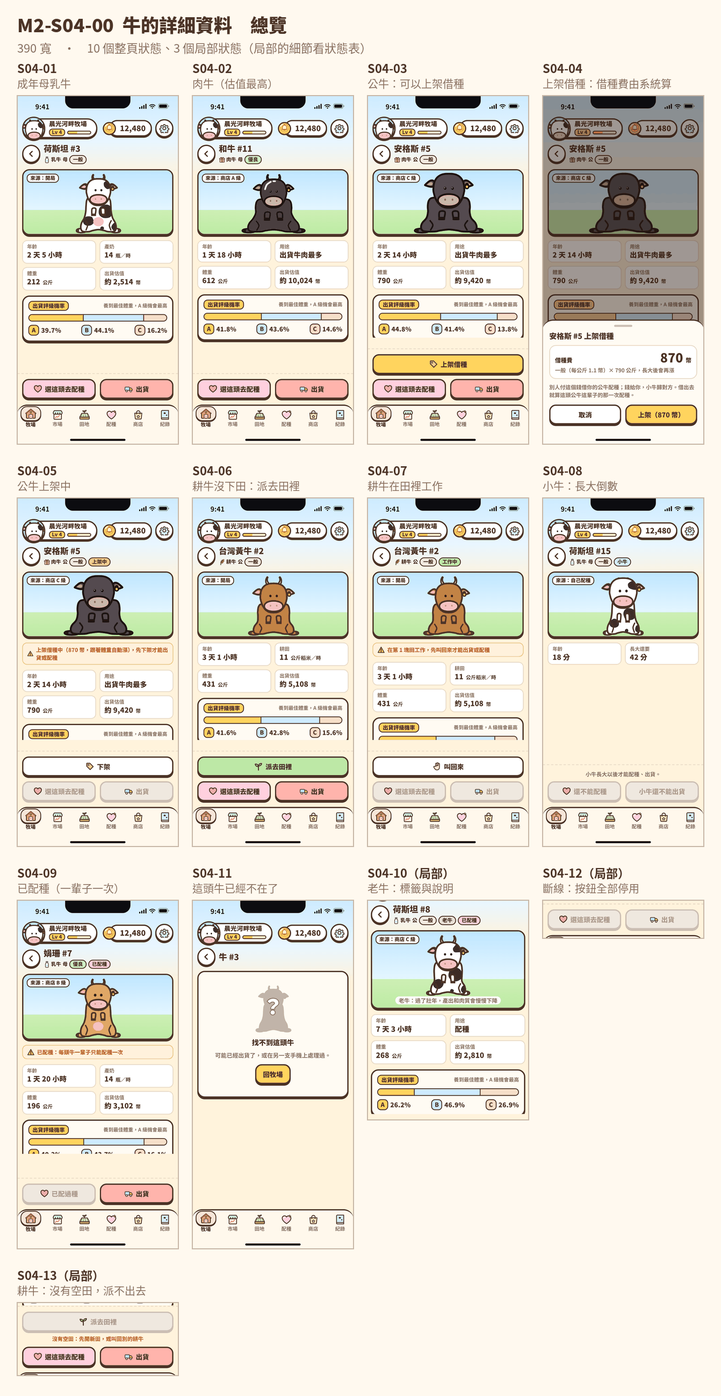
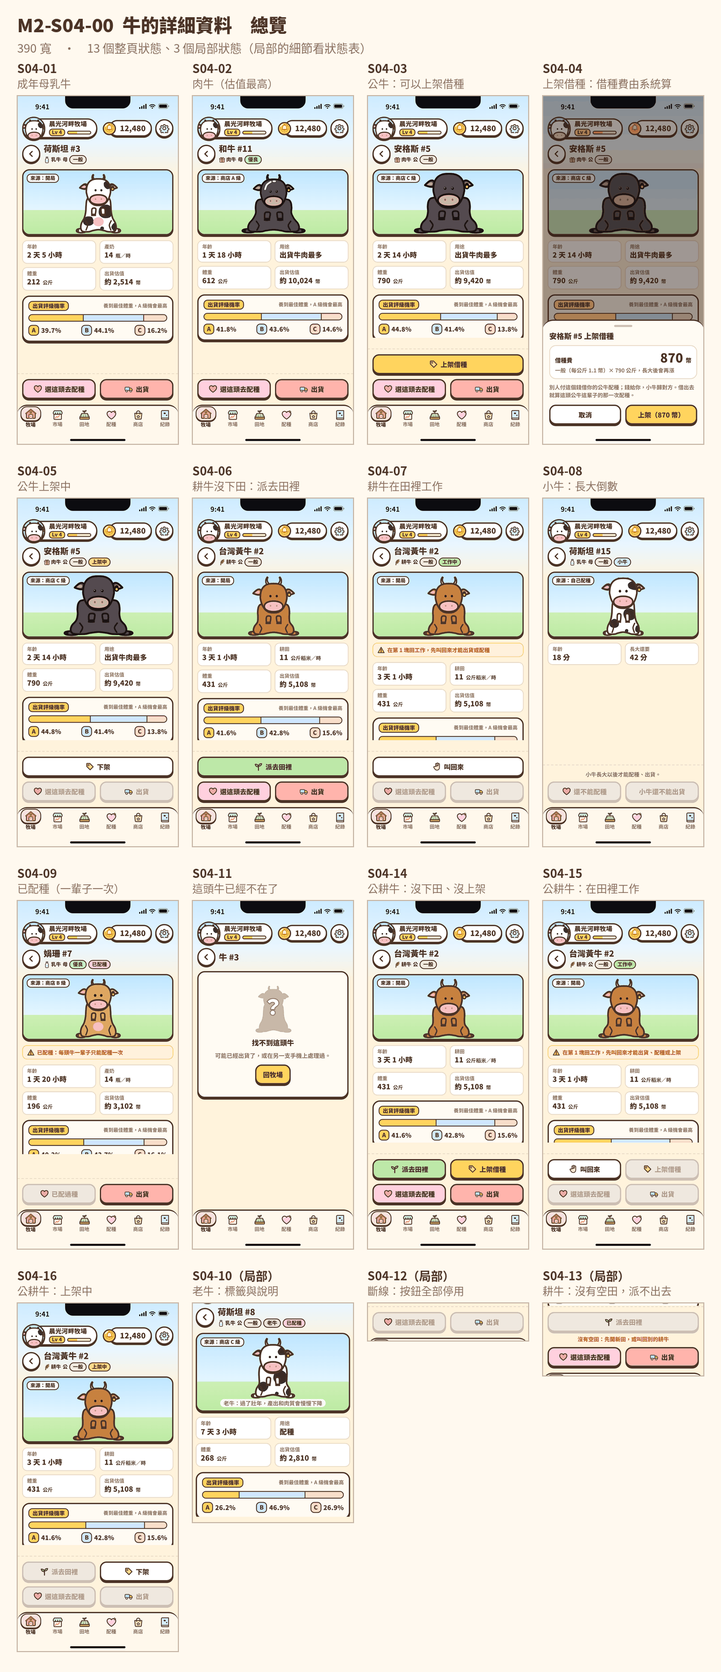
D31：上架中的公牛不放橘字（S04-05、S04-16，刪 unlistFirst）；圖鑑榜發現 24 種的都加「完成」（S12-02）；scope.md 加 9 列（184 → 193）；9 個新狀態進 boards；量測摘要重產

diff --git a/design/m2/src/js/screens/s09.js b/design/m2/src/js/screens/s09.js
@@ -93,15 +93,15 @@ function weeklyReset() {
 }
 // 排行榜的種類：key、名稱的 key、單位的 key
 const KINDS = [['networth', 'rankNetworth', 'g.coin'], ['collection', 'rankCollection', 's12.kinds'], ['weekly', 'rankWeekly', 'g.coin']];
-// 圖鑑榜發現 24 種的：分數前面加「完成」（企劃書 4.6；缺口清單 2-6）。done 只在 S12-08 打開，核准以後才套到全部
+// 圖鑑榜發現 24 種的：分數前面加綠色「完成」，下面「我的名次」那一條也有（企劃書 4.6；缺口清單 2-6，使用者 2026-10-02 核准，D31）
 const DONE_AT = 24;
 const doneBadge = () => `<span class="badge done">${icon('ok', 12)}<span class="bt">${t('s12.complete')}</span></span>`;
 function rankRow(r, unit, me = false, done = false) {
   const medal = r.rank <= 3 ? `<span class="medal m${r.rank}">${r.rank}</span>` : `<span class="rk num">${r.rank}</span>`;
   return `<div class="rank-row${me ? ' me' : ''}">${medal}<div class="grow"><div class="rn">${r.bot ? `<span class="bot">${t('botPrefix')}</span>` : ''}<span class="rn-name">${r.name}</span><span class="tag">${r.tag}</span></div><div class="rl"><span class="lv num">${t('level', { lv: r.level })}</span>${me ? `<span class="badge new">${t('s12.me')}</span>` : ''}</div></div>${done && r.value >= DONE_AT ? doneBadge() : ''}<b class="num rv">${compactBig(r.value)}<small>${unit}</small></b></div>`;
 }
-function rankPage(ctx, { kind = 0, me = null, state = '', rows = null, tall = false, done = false } = {}) {
-  const [key, , uk] = KINDS[kind], unit = t(uk);
+function rankPage(ctx, { kind = 0, me = null, state = '', rows = null, tall = false } = {}) {
+  const [key, , uk] = KINDS[kind], unit = t(uk), done = key === 'collection';
   let list = rows || RANK[key];
   if (me && me.rank <= list.length) list = list.map((r) => (r.rank === me.rank ? { ...me } : r));
   const body = state === 'loading' ? `<div class="oc-empty" style="min-height:160px"><span class="spinner"></span><span>${t('g.loading')}</span></div>`
@@ -130,7 +130,7 @@ part12('S12-06', '載入失敗', '.rank-card', (ctx) => rankPage(ctx, { kind: 0,
 full12('S12-07', '電腦玩家、名字最長（8 個中文字、16 個英文字母）、數字最大（量測用）', (ctx) => rankPage(ctx, { kind: 0, me: { rank: 12, name: RANCH.name, tag: RANCH.tag, level: 14, value: 98765432 }, rows: RANK.networth.map((r, i) => ({ ...r, name: [LONG_NAMES.cjk, LONG_NAMES.latin, '麥浪森林牧舍', '月牙石橋莊園', LONG_NAMES.cjk, '楓葉湖邊家園', LONG_NAMES.latin, '暖陽坡地牧野', '白雲谷地小屋', '青草松林牧園', '微風河畔牛舍', '晨光小丘農場'][i], level: 15 - Math.floor(i / 4), value: 999999999 - i * 12345678, bot: i % 3 === 1 })) }));
 
 // 圖鑑榜：發現 24 種的列和下面「我的名次」那一條，分數前面加「完成」。自己第 2 名、24 種
-full12('S12-08', '圖鑑榜：發現 24 種的加「完成」', (ctx) => rankPage(ctx, { kind: 1, done: true, me: { rank: 2, name: RANCH.name, tag: RANCH.tag, level: RANCH.level, value: 24 } }));
+full12('S12-08', '圖鑑榜：發現 24 種的加「完成」', (ctx) => rankPage(ctx, { kind: 1, me: { rank: 2, name: RANCH.name, tag: RANCH.tag, level: RANCH.level, value: 24 } }));
 
 export const S09 = { id: 'S09', name: '圖鑑', states: S };
 export const S12 = { id: 'S12', name: '排行榜', states: S2 };

diff --git a/design/m2/src/js/screens/s04.js b/design/m2/src/js/screens/s04.js
@@ -69,8 +69,8 @@ full('S04-04', '上架借種：借種費由系統算', (ctx) => detailPage(ctx, 
       <div class="btn-row" style="margin-top:14px">${btn(t('cancel'))}${btn(t('s04.listConfirm', { price: fmt(FEE5) }), { kind: 'primary' })}</div>`,
   }),
 }));
+// 上架中的公牛不放橘色提醒（使用者 2026-10-02：「不用跟使用者講這個機制」，D31）；狀態看名字下面的「上架中」標籤和停用的按鈕
 full('S04-05', '公牛上架中', (ctx) => detailPage(ctx, cowById(5), {
-  note: t('unlistFirst', { price: fmt(FEE5) }),
   buttons: `${btn(t('unlist'), { ic: 'tag', block: true })}<div class="btn-row" style="margin-top:12px">${breedBtn(true)}${shipBtn(true)}</div>`,
 }));
 const idleOx = { ...cowById(2), field: null };
@@ -90,7 +90,7 @@ full('S04-11', '這頭牛已經不在了', (ctx) => frame(ctx.dev, { tab: 'ranch
   <article class="card">${empty({ pic: cowSVG({ breed: 'holstein' }, { w: 120, h: 120, sil: true }), t1: t('s04.goneTitle'), t2: t('s04.goneBody'), action: btn(t('s04.backRanch'), { kind: 'primary' }) })}</article></div>` }));
 part('S04-12', '斷線：按鈕全部停用', '.detail-actions', (ctx) => detailPage(ctx, cowById(3), { offline: true, buttons: `<div class="btn-row">${breedBtn(true)}${shipBtn(true)}</div>` }));
 part('S04-13', '耕牛：沒有空田，派不出去', '.detail-actions', (ctx) => detailPage(ctx, idleOx, { buttons: `${btn(t('g.assign'), { kind: 'green', ic: 'sprout', block: true, disabled: true })}<p class="warn-text" style="margin-top:8px;text-align:center">${t('s04.noField')}</p><div class="btn-row" style="margin-top:10px">${breedBtn(false)}${shipBtn(false)}</div>` }));
-// 公耕牛（成年、沒配過種）：可以下田，也可以上架借種，一共 4 個動作。第一排兩顆半寬：派去田裡（或叫回來）、上架借種（或下架）；第二排照舊（缺口清單 2-1）
+// 公耕牛（成年、沒配過種）：可以下田，也可以上架借種，一共 4 個動作。第一排兩顆半寬：派去田裡（或叫回來）、上架借種（或下架）；第二排照舊（缺口清單 2-1，D31）
 const oxRow = (a, b) => `<div class="btn-row">${a}${b}</div><div class="btn-row" style="margin-top:12px">`;
 const FEE2 = studFee(idleOx.kg, 0);
 full('S04-14', '公耕牛：沒下田、沒上架', (ctx) => detailPage(ctx, idleOx, { buttons: `${oxRow(btn(t('g.assign'), { kind: 'green', ic: 'sprout' }), btn(t('s04.listStud'), { kind: 'primary', ic: 'tag' }))}${breedBtn(false)}${shipBtn(false)}</div>` }));
@@ -99,7 +99,6 @@ full('S04-15', '公耕牛：在田裡工作', (ctx) => detailPage(ctx, cowById(2
   buttons: `${oxRow(btn(t('s04.recall'), { ic: 'hand' }), btn(t('s04.listStud'), { kind: 'primary', ic: 'tag', disabled: true }))}${breedBtn(true)}${shipBtn(true)}</div>`,
 }));
 full('S04-16', '公耕牛：上架中', (ctx) => detailPage(ctx, { ...idleOx, listed: FEE2 }, {
-  note: t('s04.unlistFirstOx', { price: fmt(FEE2) }),
   buttons: `${oxRow(btn(t('g.assign'), { kind: 'green', ic: 'sprout', disabled: true }), btn(t('unlist'), { ic: 'tag' }))}${breedBtn(true)}${shipBtn(true)}</div>`,
 }));
 

diff --git a/design/m2/src/js/screens/s13.js b/design/m2/src/js/screens/s13.js
@@ -96,7 +96,7 @@ p13('S13-13', '解除綁定的確認（唯一綁定的帳號多一句提醒）',
 p13('S13-14', '兩種帳號都綁了：各一列，沒有登入按鈕', '.bk-body', (ctx) => backupPage(ctx, { bound: ['apple', 'google'] }));
 p13('S13-15', '綁定中…（登入視窗關掉後，等伺服器回覆）', '.sso-area', (ctx) => backupPage(ctx, { busy: true }));
 p13('S13-16', 'Android 版：只綁了 Google 時，沒有 Apple 那一列也沒有 Apple 登入按鈕', '.bk-body', (ctx) => backupPage(ctx, { android: true, bound: ['google'] }));
-p13('S13-19', 'Android 版：只綁了 Apple，提醒再綁 Google', '.bk-body', (ctx) => backupPage(ctx, { android: true, bound: ['apple'] }), { board: '缺口-狀態表' });
+p13('S13-19', 'Android 版：只綁了 Apple，提醒再綁 Google', '.bk-body', (ctx) => backupPage(ctx, { android: true, bound: ['apple'] }), { board: '只綁Apple-狀態表' });
 
 // ---------- 語言、漲跌顏色（D25） ----------
 // 選單用各自的文字寫；第一次打開跟著手機的語言（中文 → 繁中、泰文 → 泰文、其他 → 英文）
@@ -193,8 +193,8 @@ const maint = (ctx, eta) => frame(ctx.dev, { tab: null, hud: false, body: `<div 
 f16('S16-01', '伺服器維護中', (ctx) => maint(ctx, etaLine(t('s16.eta', { date: t('date.mdw', { m: 10, d: 2, w: t('weekday.4'), time: '03:00' }) }))));
 p16('S16-02', '操作時伺服器錯誤（500）', '.toast', (ctx) => ranchPage(ctx, { overlays: toast('err', t('err.internal')) }));
 p16('S16-03', '錯誤文案總表（依錯誤碼）', '#crop', (ctx) => frame(ctx.dev, { tab: null, hud: false, content: `<div id="crop" class="err-table">${ERRORS.map(([code, k, key, p]) => `<div class="err-item"><code data-note>${code}</code><div class="g-toast">${toast(k, errText(key, p))}</div></div>`).join('')}</div>`, tall: true }), { tall: true });
-p16('S16-04', '維護超過預計的時間', '.splash-box', (ctx) => maint(ctx, etaLine(t('s16.late'))), { board: '缺口-狀態表' });
-p16('S16-05', '沒有預計恢復的時間', '.splash-box', (ctx) => maint(ctx, ''), { board: '缺口-狀態表' });
+p16('S16-04', '維護超過預計的時間', '.splash-box', (ctx) => maint(ctx, etaLine(t('s16.late'))), { board: '預計時間-狀態表' });
+p16('S16-05', '沒有預計恢復的時間', '.splash-box', (ctx) => maint(ctx, ''), { board: '預計時間-狀態表' });
 
 export const S13M = { id: 'S13', name: '設定', states: S13 };
 export const S14M = { id: 'S14', name: '找回牧場', states: S14 };

diff --git a/design/m2/src/js/screens/s17.js b/design/m2/src/js/screens/s17.js
@@ -98,6 +98,6 @@ full('S17-09', '收成成功', (ctx) => fieldsPage(ctx, { stock: 361, fields: [{
 part('S17-10', '開新田：金幣不夠、已經 12 塊', '#crop', (ctx) => frame(ctx.dev, { tab: 'fields', content: `<div id="crop" class="stack">${btn(t('expandField', { cost: fmt(FIELD_UP.cost) }), { block: true, ic: 'plus', disabled: true })}<p class="warn-text" style="text-align:center">${t('notEnoughCoins', { n: fmt(FIELD_UP.cost - 3200) })}</p>${btn(t('s17.maxFields', { n: 12 }), { block: true, disabled: true })}</div>`, hud: { coins: 3200 } }));
 part('S17-11', '開新田成功', '.toast', (ctx) => fieldsPage(ctx, { hud: { coins: RANCH.coins - FIELD_UP.cost }, fields: [...FIELDS, { index: 3, cow: null, rice: 0 }], overlays: toast('ok', t('fieldExpanded', { n: 4 })) }));
 // 第 1 塊田：之前的稀有耕牛長了 120 公斤，叫回後改派一般耕牛（上限 88 公斤），伺服器不會再長
-part('S17-12', '田裡剩的稻米比這頭牛的上限多', '.field-card', (ctx) => fieldsPage(ctx, { fields: [{ ...FIELDS[0], rice: 120 }, FIELDS[1], FIELDS[2]], scrollTo: '.field-card' }), { board: '缺口-狀態表' });
+part('S17-12', '田裡剩的稻米比這頭牛的上限多', '.field-card', (ctx) => fieldsPage(ctx, { fields: [{ ...FIELDS[0], rice: 120 }, FIELDS[1], FIELDS[2]], scrollTo: '.field-card' }), { board: '剩的稻米-狀態表' });
 
 export default { id: 'S17', name: '田地', states: S };

diff --git a/design/m2/src/js/screens/s08.js b/design/m2/src/js/screens/s08.js
@@ -158,7 +158,7 @@ part18('S18-15', '借種紀錄是空的（全部、借出、借入）', '#crop',
   <div class="page-head"><button class="icon-btn" aria-label="${t('back')}">${icon('back', 22)}</button><div class="grow"><h1>${t('s18.logTitle')}</h1><div class="sub">${t('s18.logIncome', { v: 0 })}</div></div></div>
   ${LOG_EMPTY.map(([on, key]) => `<div class="filter" data-hscroll>${[t('g.all'), t('s18.out'), t('s18.in')].map((s, i) => `<button${i === on ? ' class="on"' : ''}>${s}</button>`).join('')}</div>
   <article class="card"><div class="oc-empty"><span>${t(key)}</span></div></article>`).join('')}
-  <p class="hint" style="text-align:center">${t('s18.logKeep', { n: 30 })}</p></div>` }), { board: '缺口-狀態表' });
+  <p class="hint" style="text-align:center">${t('s18.logKeep', { n: 30 })}</p></div>` }), { board: '空紀錄-狀態表' });
 
 // 借種紀錄的一列。gone：對方的牧場刪除了，紀錄照樣保留，對方的名字顯示「已刪除的牧場」（ceo 2026-10-02）
 function logRow(r) {

diff --git a/design/m2/measure/summary-th.md b/design/m2/measure/summary-th.md
@@ -9,10 +9,10 @@
 
 | 寬度 | 狀態數 | 最小字級 | 有問題的狀態 | 橫向捲動 | 刻意截成「…」 | 要往下捲的狀態 |
 |---|---|---|---|---|---|---|
-| 430×932 | 171 | 12 px | 0 | 0 | 0 | 36 |
-| 390×844 | 171 | 12 px | 0 | 0 | 2 | 47 |
-| 360×800 | 171 | 12 px | 2 | 0 | 4 | 51 |
-| 320×568 | 171 | 12 px | 4 | 0 | 115 | 73 |
+| 430×932 | 180 | 12 px | 0 | 0 | 0 | 38 |
+| 390×844 | 180 | 12 px | 0 | 0 | 2 | 49 |
+| 360×800 | 180 | 12 px | 2 | 0 | 4 | 56 |
+| 320×568 | 180 | 12 px | 3 | 0 | 121 | 79 |
 
 ## 430×932
 
@@ -31,7 +31,6 @@
 
 - **S03-08 一頭牛都沒有**：文字互相重疊、被蓋住或壓在圖上 9（例：ไปสุ่มวัวที่ร้านค้า หรือ；0%／按鈕:ไปร้านค้า；0 / 42 ขวดไม่มีวัวที่ให้）
 - **S03-17 大新聞提示：全部商品一起大跌（新文案）**：文字互相重疊、被蓋住或壓在圖上 1（例：พายุพัดผ่าน ตลาดปิดหนึ่ง）
-- **S04-08 小牛：長大倒數**：文字互相重疊、被蓋住或壓在圖上 2（例：อายุ／ลูกวัวต้องโตก่อนจึง；จะโตในอีก／ลูกวัวต้องโตก่）
 - **S07-05 斷線：「確定出貨」停用**：文字互相重疊、被蓋住或壓在圖上 1（例：กำลังเชื่อมต่อ…／โฮลสไต）
 
 ## 缺翻譯的 key（畫面用繁中顯示）
@@ -52,13 +51,13 @@
 
 | 狀態 | 寬度 | 被拆開的詞 | 實際換行（⏎） |
 |---|---|---|---|
-| S04-05 | 430 | ถอนประกาศ | ลงประกาศพ่อพันธุ์อยู่ (870 เหรียญ ขึ้นเองตามน้ำหนัก) ต้องถอน⏎ประกาศก่อนจึงจะส่งขายหรือผสมพันธุ์ได้ |
 | S04-07 | 430 | ผสมพันธุ์ | กำลังไถนาอยู่ที่แปลงที่ 1 ต้องเรียกกลับก่อนจึงจะส่งขายหรือผสม⏎พันธุ์ได้ |
 | S08-02 | 430 | วัวตัวผู้ | ไปสุ่มวัวที่ร้านค้า หรือรอลูกวัวตัวผู้โต หรือไปที่ "ยืมพ่อพันธุ์" เพื่อยืมวัว⏎ตัวผู้ของคนอื่นก็ได้ |
 | S13-07 | 430 | ลงชื่อเข้าใช้ด้วย | สำรองฟาร์มแล้ว หลังเปลี่ยนมือถือหรือติดตั้งใหม่ ลงชื่อเข้าใช้⏎ด้วยบัญชีที่ผูกไว้ก็กู้คืนได้ |
 | S13-13 | 430 | ลงชื่อเข้าใช้ด้วย | สำรองฟาร์มแล้ว หลังเปลี่ยนมือถือหรือติดตั้งใหม่ ลงชื่อเข้าใช้⏎ด้วยบัญชีที่ผูกไว้ก็กู้คืนได้ |
 | S13-14 | 430 | ลงชื่อเข้าใช้ด้วย | สำรองฟาร์มแล้ว หลังเปลี่ยนมือถือหรือติดตั้งใหม่ ลงชื่อเข้าใช้⏎ด้วยบัญชีที่ผูกไว้ก็กู้คืนได้ |
 | S13-16 | 430 | ลงชื่อเข้าใช้ด้วย | สำรองฟาร์มแล้ว หลังเปลี่ยนมือถือหรือติดตั้งใหม่ ลงชื่อเข้าใช้⏎ด้วยบัญชีที่ผูกไว้ก็กู้คืนได้ |
+| S13-19 | 430 | ลงชื่อเข้าใช้ด้วย | สำรองฟาร์มแล้ว หลังเปลี่ยนมือถือหรือติดตั้งใหม่ ลงชื่อเข้าใช้⏎ด้วยบัญชีที่ผูกไว้ก็กู้คืนได้ |
 | S18-11 | 430 | วัวช็อกโกแลต | เมื่อวาน 21:40 · เกิดลูกวัว วัว⏎ช็อกโกแลต #14 |
 | S07-03 | 390 | ส่งขาย | วัวตัวนี้กำลังไถนาอยู่ ต้องเรียกกลับก่อนจึงจะส่ง⏎ขายได้ |
 | S09-01 | 390 | วัวสตรอว์เบอร์รี | วัว⏎สตรอว์เบอร์รี |
@@ -70,6 +69,7 @@
 | S13-13 | 390 | ลงชื่อเข้าใช้ด้วย | สำรองฟาร์มแล้ว หลังเปลี่ยนมือถือหรือติดตั้งใหม่ ลงชื่อ⏎เข้าใช้ด้วยบัญชีที่ผูกไว้ก็กู้คืนได้ |
 | S13-14 | 390 | ลงชื่อเข้าใช้ด้วย | สำรองฟาร์มแล้ว หลังเปลี่ยนมือถือหรือติดตั้งใหม่ ลงชื่อ⏎เข้าใช้ด้วยบัญชีที่ผูกไว้ก็กู้คืนได้ |
 | S13-16 | 390 | ลงชื่อเข้าใช้ด้วย | สำรองฟาร์มแล้ว หลังเปลี่ยนมือถือหรือติดตั้งใหม่ ลงชื่อ⏎เข้าใช้ด้วยบัญชีที่ผูกไว้ก็กู้คืนได้ |
+| S13-19 | 390 | ลงชื่อเข้าใช้ด้วย | สำรองฟาร์มแล้ว หลังเปลี่ยนมือถือหรือติดตั้งใหม่ ลงชื่อ⏎เข้าใช้ด้วยบัญชีที่ผูกไว้ก็กู้คืนได้ |
 | S16-03 | 390 | ถอนประกาศ | วัวตัวผู้ตัวนี้ลงประกาศอยู่ในตลาดพ่อพันธุ์ ถอน⏎ประกาศก่อน |
 | S18-01 | 390 | ความหายาก、หายาก | ระบบคิดค่าพ่อพันธุ์ให้: น้ำหนักวัวตัวผู้ × ราคาต่อ กก. ตามความหา⏎ยาก โตขึ้นราคาจะขึ้นเอง |
 | S18-03 | 390 | ความหายาก、หายาก | ระบบคิดค่าพ่อพันธุ์ให้: น้ำหนักวัวตัวผู้ × ราคาต่อ กก. ตามความหา⏎ยาก โตขึ้นราคาจะขึ้นเอง |
@@ -78,6 +78,7 @@
 | S03-04 | 360 | ถังนม | โกดังเต็ม เก็บเข้าได้ 24 ขวด⏎ยังเหลืออีก 12.4 ขวดในถัง⏎นม |
 | S04-04 | 360 | ผสมพันธุ์ | คนอื่นจ่ายเงินจำนวนนี้เพื่อยืมวัวตัวผู้ของคุณไปผสมพันธุ์ เงิน⏎เป็นของคุณ ลูกวัวเป็นของอีกฝ่าย การให้ยืมนับเป็นการผสม⏎พัน |
 | S04-07 | 360 | ส่งขาย | กำลังไถนาอยู่ที่แปลงที่ 1 ต้องเรียกกลับก่อนจึงจะส่ง⏎ขายหรือผสมพันธุ์ได้ |
+| S04-15 | 360 | ส่งขาย | กำลังไถนาอยู่ที่แปลงที่ 1 ต้องเรียกกลับก่อนจึงจะส่ง⏎ขาย ผสมพันธุ์ หรือลงประกาศพ่อพันธุ์ได้ |
 | S05-04 | 360 | ถังนม | โกดังเต็มแล้ว: เก็บนมเข้าได้แค่บางส่วน และเมื่อถัง⏎นมเต็ม วัวจะหยุดให้นม |
 | S08-02 | 360 | ยืมพ่อพันธุ์ | ไปสุ่มวัวที่ร้านค้า หรือรอลูกวัวตัวผู้โต หรือไปที่ "ยืมพ่อ⏎พันธุ์" เพื่อยืมวัวตัวผู้ของคนอื่นก็ได้ |
 | S09-01 | 360 | วัวสตรอว์เบอร์รี | วัว⏎สตรอว์เบอร์รี |
@@ -118,6 +119,7 @@
 | S17-08 | 320 | วัวเหลืองไต้หวัน | วัวเหลือง⏎ไต้หวัน #2 |
 | S17-09 | 320 | วัวเหลืองไต้หวัน | วัวเหลือง⏎ไต้หวัน #2 |
 | S17-11 | 320 | วัวเหลืองไต้หวัน | วัวเหลือง⏎ไต้หวัน #2 |
+| S17-12 | 320 | วัวเหลืองไต้หวัน | วัวเหลือง⏎ไต้หวัน #2 |
 | S18-07 | 320 | วัวตัวเมีย | เลือกวัวตัวผู้ที่จะยืมก่อน แล้วค่อยเลือกวัว⏎ตัวเมียของตัวเอง |
 | S18-09 | 320 | วัวช็อกโกแลต | ลูกวัวตัวใหม่ วัว⏎ช็อกโกแลต #16 |
 | S18-11 | 320 | วัวช็อกโกแลต | เมื่อวาน 21:40 · ⏎เกิดลูกวัว วัว⏎ช็อกโกแลต #14 |
@@ -128,7 +130,7 @@
 | S19-05 | 320 | ความหายาก、หายาก | เลือกได้แค่เกรด ส่วนประเภท เพศ และความหา⏎ยากจะสุ่ม โดยเปิดเผยโอกาสทั้งหมด วัวที่ได้จะ⏎เป็นลูกวัว |
 | S19-05 | 320 | หายาก | สุ่มได้วัวหา⏎ยากง่าย⏎ที่สุด |
 
-<details><summary>所有換了行的泰文（172 句，給校對看斷詞）</summary>
+<details><summary>所有換了行的泰文（173 句，給校對看斷詞）</summary>
 
 | 實際換行（⏎） | Intl.Segmenter 斷詞（\|） |
 |---|---|
@@ -138,8 +140,8 @@
 | ยินดีต้อนรับสู่⏎小花的快樂牧場 #1234 | ยินดี \| ต้อนรับ \| สู่ \| 小花 \| 的 \| 快樂 \| 牧場 \|   \| # \| 1234 |
 | โกดังเต็ม เก็บเข้าได้ 24 ขวด⏎ยังเหลืออีก 12.4 ขวดในถังนม | โกดัง \| เต็ม \|   \| เก็บ \| เข้า \| ได้ \|   \| 24 \|   \| ขวด \| ยัง \| เหลือ \| อีก \|   \| 12.4 \|   \| ขวด \| ใน \| ถัง \| นม |
 | คนอื่นจ่ายเงินจำนวนนี้เพื่อยืมวัวตัวผู้ของคุณไปผสมพันธุ์ เงินเป็นของคุณ ⏎ลูกวัวเป็นของอีกฝ่าย การให้ยืมนับเป็นการผสมพันธ | คน \| อื่น \| จ่าย \| เงิน \| จำนวน \| นี้ \| เพื่อ \| ยืม \| วัว \| ตัวผู้ \| ของ \| คุณ \| ไป \| ผสม \| พันธุ์ \|   \| เงิน \| เป็น \| ของ \| คุณ \|   \| ลูกวัว \| เป็น \| ของ \| อีก \| ฝ่าย \|   \| การ \| ให้ \| ยืม \| นับ \| เป็นการ \| ผสม \| พันธุ์ \| ครั้ง |
-| ลงประกาศพ่อพันธุ์อยู่ (870 เหรียญ ขึ้นเองตามน้ำหนัก) ต้องถอน⏎ประกาศก่อนจึงจะส่งขายหรือผสมพันธุ์ได้ | ลง \| ประกาศ \| พ่อ \| พันธุ์ \| อยู่ \|   \| ( \| 870 \|   \| เหรียญ \|   \| ขึ้น \| เอง \| ตาม \| น้ำ \| หนัก \| ) \|   \| ต้อง \| ถอน \| ประกาศ \| ก่อน \| จึง \| จะ \| ส่ง \| ขาย \| หรือ \| ผสม \| พันธุ์ \| ได้ |
 | กำลังไถนาอยู่ที่แปลงที่ 1 ต้องเรียกกลับก่อนจึงจะส่งขายหรือผสม⏎พันธุ์ได้ | กำลัง \| ไถนา \| อยู่ \| ที่ \| แปลง \| ที่ \|   \| 1 \|   \| ต้อง \| เรียก \| กลับ \| ก่อน \| จึง \| จะ \| ส่ง \| ขาย \| หรือ \| ผสม \| พันธุ์ \| ได้ |
+| กำลังไถนาอยู่ที่แปลงที่ 1 ต้องเรียกกลับก่อนจึงจะส่งขาย ผสมพันธุ์ ⏎หรือลงประกาศพ่อพันธุ์ได้ | กำลัง \| ไถนา \| อยู่ \| ที่ \| แปลง \| ที่ \|   \| 1 \|   \| ต้อง \| เรียก \| กลับ \| ก่อน \| จึง \| จะ \| ส่ง \| ขาย \|   \| ผสม \| พันธุ์ \|   \| หรือ \| ลง \| ประกาศ \| พ่อ \| พันธุ์ \| ได้ |
 | ราคาที่ได้ = ราคาตลาด × ตัวคูณ: นมคูณความหายากและความสด เนื้อวัวคูณ⏎เกรด ความหายาก และสภาพการเก็บ ข้าวคูณสภาพการเก็บ | ราคา \| ที่ \| ได้ \|   \| = \|   \| ราคา \| ตลาด \|   \| × \|   \| ตัว \| คูณ \| : \|   \| นม \| คูณ \| ความ \| หา \| ยาก \| และ \| ความสด \|   \| เนื้อ \| วัว \| คูณ \| เกรด \|   \| ความ \| หา \| ยาก \|   \| และ \| สภาพ \| การ \| เก็บ \|   \| ข้าว \| คูณ \| สภาพ \| การ \| เก็บ |
 | โกดังเต็มแล้ว: เก็บนมเข้าได้แค่บางส่วน และเมื่อถังนมเต็ม วัวจะ⏎หยุดให้นม | โกดัง \| เต็ม \| แล้ว \| : \|   \| เก็บ \| นม \| เข้า \| ได้ \| แค่ \| บาง \| ส่วน \|   \| และ \| เมื่อ \| ถัง \| นม \| เต็ม \|   \| วัว \| จะ \| หยุด \| ให้ \| นม |
 | ปกติ (ราคาพื้นฐาน): นม 12 เหรียญ/ขวด, เนื้อวัว 12 เหรียญ/กก., ข้าว 5 ⏎เหรียญ/กก. | ปกติ \|   \| ( \| ราคา \| พื้น \| ฐาน \| ) \| : \|   \| นม \|   \| 12 \|   \| เหรียญ \| / \| ขวด \| , \|   \| เนื้อ \| วัว \|   \| 12 \|   \| เหรียญ \| / \| กก \| . \| , \|   \| ข้าว \|   \| 5 \|   \| เหรียญ \| / \| กก \| . |
@@ -171,6 +173,7 @@
 | บัญชี Google⏎ผูกแล้ว · 01/10/2026 | บัญชี \|   \| Googleผูก \| แล้ว \|   \| · \|   \| 01 \| / \| 10 \| / \| 2026 |
 | ครั้งแรกที่เปิดจะใช้ภาษาตามมือถือ เมื่อเปลี่ยนภาษา ข้อความบนหน้าจอ ชื่อวัว ⏎และข่าวจะเปลี่ยนตาม แต่ชื่อฟาร์มจะไม่เปลี่ยน | ครั้ง \| แรก \| ที่ \| เปิด \| จะ \| ใช้ \| ภาษา \| ตาม \| มือ \| ถือ \|   \| เมื่อ \| เปลี่ยน \| ภาษา \|   \| ข้อความ \| บน \| หน้า \| จอ \|   \| ชื่อ \| วัว \|   \| และ \| ข่าว \| จะ \| เปลี่ยน \| ตาม \|   \| แต่ \| ชื่อ \| ฟาร์ม \| จะ \| ไม่ \| เปลี่ยน |
 | ภาษาจีนตัวเต็มตั้งต้นเป็น "แดง = ขึ้น" ส่วนภาษาอังกฤษและภาษาไทยตั้ง⏎ต้นเป็น "เขียว = ขึ้น" | ภาษา \| จีน \| ตัว \| เต็ม \| ตั้ง \| ต้น \| เป็น \|   \| " \| แดง \|   \| = \|   \| ขึ้น \| " \|   \| ส่วน \| ภาษา \| อังกฤษ \| และ \| ภาษา \| ไทย \| ตั้ง \| ต้น \| เป็น \|   \| " \| เขียว \|   \| = \|   \| ขึ้น \| " |
+| บนมือถือ Android ต้องใช้บัญชี Google กู้คืนฟาร์ม แนะนำให้ผูกบัญชี ⏎Google เพิ่มอีกบัญชี | บน \| มือ \| ถือ \|   \| Android \|   \| ต้อง \| ใช้ \| บัญชี \|   \| Google \|   \| กู้ \| คืน \| ฟาร์ม \|   \| แนะนำ \| ให้ \| ผูก \| บัญชี \|   \| Google \|   \| เพิ่ม \| อีก \| บัญชี |
 | อาจสำรองไว้ด้วยบัญชีอื่น⏎ฟาร์มที่ไม่เคยสำรองจะกู้คืนไม่ได้ ต้องเริ่มฟาร์มใหม่ | อาจ \| สำรอง \| ไว้ \| ด้วย \| บัญชี \| อื่น \| ฟาร์ม \| ที่ \| ไม่ \| เคย \| สำรอง \| จะ \| กู้ \| คืน \| ไม่ \| ได้ \|   \| ต้อง \| เริ่ม \| ฟาร์ม \| ใหม่ |
 | หนึ่งฟาร์มเล่นพร้อมกันได้แค่เครื่องเดียว⏎ลงชื่อเข้าใช้ที่เครื่องนี้อีกครั้งเพื่อนำฟาร์มกลับมา | หนึ่ง \| ฟาร์ม \| เล่น \| พร้อม \| กัน \| ได้ \| แค่ \| เครื่อง \| เดียว \| ลงชื่อ \| เข้า \| ใช้ \| ที่ \| เครื่อง \| นี้ \| อีก \| ครั้ง \| เพื่อ \| นำ \| ฟาร์ม \| กลับ \| มา |
 | ถ้าคุณไม่ได้ทำเอง ให้ตรวจสอบความปลอดภัยของบัญชี Apple หรือ ⏎Google นั้นก่อน แล้วค่อยลงชื่อเข้าใช้เพื่อนำฟาร์มกลับมา | ถ้า \| คุณ \| ไม่ \| ได้ \| ทำ \| เอง \|   \| ให้ \| ตรวจ \| สอบ \| ความ \| ปลอดภัย \| ของ \| บัญชี \|   \| Apple \|   \| หรือ \|   \| Google \|   \| นั้น \| ก่อน \|   \| แล้ว \| ค่อย \| ลงชื่อ \| เข้า \| ใช้ \| เพื่อ \| นำ \| ฟาร์ม \| กลับ \| มา |

diff --git a/design/m2/scope.md b/design/m2/scope.md
@@ -151,7 +151,7 @@
 | S04-02 | 肉牛（估值最高、評級機率） | 整頁 | 同上 | 同上 | 有 |
 | S04-03 | 公牛，可以上架：多「上架」 | 整頁 | `:147-155` | `S.list` | 有（沒有截圖） |
 | S04-04 | 上架借種：借種費由系統算（體重 × 每公斤價格），顯示算法；「上架（870 幣）」 | 整頁 | `_list`（`:232-251`）；D26 | 新（取代選價位） | 部分 |
-| S04-05 | 公牛上架中：「上架借種中（870 幣，跟著體重自動漲）」＋橘字提醒；出貨、配種停用；「下架」 | 整頁 | `listed`（`:74,90,136-146`） | `S.listedAt`、`S.unlistFirst`、`S.unlist` | 有（沒有截圖） |
+| S04-05 | 公牛上架中：名字下面「上架中」標籤；出貨、配種停用；「下架」。不放橘字提醒（使用者 2026-10-02 拿掉，D31） | 整頁 | `listed`（`:74,90,136-146`） | `S.listedAt`、`S.unlist` | 有（沒有截圖） |
 | S04-06 | 耕牛，沒下田：「派去田裡」 | 整頁 | `:108,122-132` | `S.assignOx` | 部分 |
 | S04-07 | 耕牛在田裡：「在第 N 塊田工作」＋橘字；出貨、配種停用；「叫回」 | 整頁 | `working`（`:73,89,110-120`） | `S.workingIn`、`S.recallFirst`、`S.recall` | 有（沒有截圖） |
 | S04-08 | 小牛：長大倒數；「小牛還不能出貨」停用；配種停用；不顯示估值 | 整頁 | 還沒到 `adultAt`（`:76-85,94-95,105`） | `S.growUp`、`S.shipNotAdult` | 有（沒有截圖） |
@@ -160,8 +160,13 @@
 | S04-11 | 這頭牛已經不在了（剛出貨或別的手機操作）：「找不到這頭牛」＋返回 | 整頁 | `cow == null`（`:34-35`） | 新（M1 誤用 `S.noCows`） | 部分 |
 | S04-12 | 斷線：所有按鈕停用 | 局部 | 共用 | — | 有 r2/08 |
 | S04-13 | 耕牛：沒有空田，「派去田裡」停用＋說明（2026-10-01 畫圖時從 S04-06 拆出來） | 局部 | 沒有空田；M1 不看有沒有空田（`:127-129`） | 新 | 無 |
+| S04-14 | 公耕牛（成年、沒配過種）：第一排兩顆半寬「派去田裡」「上架借種」，第二排「選這頭去配種」「出貨」 | 整頁 | `can_work` 和 `stud_fee` 都有（協定 2.3；缺口清單 2-1） | 沿用 | 無 |
+| S04-15 | 公耕牛在田裡：第一排「叫回來」、上架借種停用；配種、出貨停用；橘字「在第 1 塊田工作，先叫回來才能出貨、配種或上架」 | 整頁 | `working`（缺口清單 2-1） | 新（`s04.recallFirstOx`，使用者 2026-10-02 核准，D31） | 無 |
+| S04-16 | 公耕牛上架中：第一排派去田裡停用、「下架」；配種、出貨停用；不放橘字提醒 | 整頁 | `listed`（缺口清單 2-1） | 沿用（使用者 2026-10-02 核准，D31） | 無 |
 
 - 品種名＋編號要畫。品質星等、生病與照顧第一版不做，不畫（ceo 2026-10-01；企劃書 4.1 已改）。
+- 公耕牛（使用者 2026-10-02 核准，D31）：可以下田也可以上架借種，第一排放兩顆半寬的按鈕（派去田裡或叫回來、上架借種或下架），第二排照舊。英文、泰文窄手機放不下時，一顆一排；內容區的底部跟著動作區實際的高度往上推（`kit.js` 的 `fitActions()`，任何動作區比預留高的狀態都適用）。
+- 上架中的公牛（S04-05、S04-16）不放橘字提醒：使用者 2026-10-02 說「不用跟使用者講這個機制」（D31）。在田裡的橘字照留（S04-07、S04-15）。
 - 正面大圖左上角的來源標籤（「來源：商店 C 級」）不能蓋到牛頭（ceo 2026-10-02）：
   - 大圖的牛是 200×150、置中；標籤在卡片內左上角（左 8、上 8）。24 種牛（公母、成年小牛）都量過，牛頭最靠左的地方離牛圖左緣：一行標籤的高度內 42 px、兩行的高度內 38 px。
   - 一行：標籤的右緣不超過「牛圖左緣 + 42 − 6」就一行（繁中 430、390 都是一行）。
@@ -276,14 +281,16 @@
 | 頁面 ID | 狀態 | 類型 | 觸發條件 | 文案來源 | M1 |
 |---|---|---|---|---|---|
 | S12-01 | 總資產（自己在榜內，那一列標示） | 整頁 | `leaderboard_screen.dart:19,78-106` | `S.rankNetworth`、`S.myRank` | 有 v02/17 |
-| S12-02 | 收藏 | 整頁 | 同上 | `S.rankCollection` | 有 |
+| S12-02 | 收藏：發現 24 種的那幾列，分數前面加綠色「完成」（D31 之後） | 整頁 | 同上 | `S.rankCollection`、`s12.complete` | 有 |
 | S12-03 | 本週收入 | 整頁 | 同上 | `S.rankWeekly` | 有 |
 | S12-04 | 自己沒上榜：「我的名次：未上榜」 | 局部 | `me == null`（`:84`） | `S.notRanked` | 有 |
 | S12-05 | 載入中 | 局部 | `:68-69` | 新（M1 借用「試算中…」） | 部分 |
 | S12-06 | 載入失敗＋重試 | 局部 | `:72-73` | `S.loadFailed`、`S.retry` | 有 |
 | S12-07 | 電腦玩家、最長牧場名、最大分數 | 整頁 | `:59`；量測用 | `S.botPrefix` | 部分 v02/17 |
+| S12-08 | 圖鑑榜：自己也發現 24 種，自己那一列和下面「我的名次」那一條都有「完成」 | 整頁 | 分數 24（企劃書 4.6；缺口清單 2-6） | 新（`s12.complete`，使用者 2026-10-02 核准，D31） | 無 |
 
 - 每一列顯示場主等級（ceo 2026-10-01 要畫；協定 `entries[]` 要補，由 ceo 列給 cow-back）。排行榜一開始就開放。
+- 圖鑑榜的「完成」（使用者 2026-10-02 核准，D31）：企劃書 4.6 的完成度獎勵就是在圖鑑榜上顯示「完成」。分數 24 的列和下面那一條，在分數前面加綠色標籤（跟「我」的黃色分開）。泰文窄手機下面那一條放不下時，「完成」只留打勾（`kit.js` 的 `fitMyRank()`）。
 
 ### S13 設定（M1 沒做）
 
@@ -307,6 +314,7 @@
 | S13-16 | Android 版：只綁了 Google 時，沒有 Apple 那一列，也沒有 Apple 登入按鈕 | 局部 | Android；綁過 Apple 的牧場才顯示 Apple 那一列（已綁定＋解除） | 新 | 無 |
 | S13-17 | 語言：「繁體中文」「English」「ไทย」，目前的打勾 | 整頁 | 設定 › 語言（D25） | 新 | 無 |
 | S13-18 | 漲跌顏色：漲紅跌綠（繁中預設）或綠漲紅跌（英文、泰文預設） | 局部 | 設定 › 漲跌顏色（D25） | 新 | 無 |
+| S13-19 | Android 版：只綁了 Apple（從 iPhone 換過來）。Apple 那一列＋Google 登入鈕，多一句「在 Android 手機找回牧場要用 Google 帳號，建議再綁一個 Google 帳號。」 | 局部 | Android、`account.links` 只有 apple（缺口清單 2-4） | 新（`s13.backup.addGoogleAndroid`，使用者 2026-10-02 核准，D31） | 無 |
 
 - 2026-10-01 D22：換手機改用綁定 Apple／Google 帳號找回牧場（使用者裁示；規則在企劃書 4.11，brief 是 `docs/briefs/2026-10-01-ui-account-binding.md`）。S13-02 原本那一頁的內容整個換掉、沿用 ID；S13-07 以後是新增的。
 - 登入按鈕照官方樣式，不套我們的按鈕樣式：Apple 黑底白字、Google 白底細外框，兩顆一樣大、Apple 在上，不用捲動就看得到。
@@ -348,6 +356,8 @@
 | S16-01 | 維護中：預計恢復時間 | 整頁 | GDD 4.12（協定沒有維護訊號） | 新 | 無 |
 | S16-02 | 操作時伺服器錯誤（500） | 局部 | `http_game_api.dart:38,81-87` | 第 7 節 `internal` | 部分 |
 | S16-03 | 錯誤文案總表：第 7 節每個會碰到的錯誤碼各一則 | 局部 | 見第 7 節 | 新 | 無 |
+| S16-04 | 維護拖過了預計的時間：「預計…恢復」那一行換成「比預計的時間晚一點，請再等一下」 | 局部 | `active` 是 true、現在已經過了 `ends_at_real`（協定 6.1；缺口清單 2-3） | 新（`s16.late`，使用者 2026-10-02 核准，D31） | 無 |
+| S16-05 | 沒有預計恢復的時間：不顯示那一行 | 局部 | 沒有 `ends_at_real`（例如 M4 反向代理回的 503；缺口清單 2-3） | 沿用（使用者 2026-10-02 核准，D31） | 無 |
 
 ### S17 田地與耕田
 
@@ -364,6 +374,7 @@
 | S17-09 | 收成成功（收成動畫的最後一格） | 整頁 | `:44-49` | `S.harvested` | 部分 v02/08 |
 | S17-10 | 開新田：金幣不夠／已滿 12 塊 | 局部 | `:58,61,67` | `S.notEnoughCoins`、`S.maxed` | 有 v02/07 |
 | S17-11 | 開新田成功 | 局部 | `:64` | `S.fieldExpanded` | 有 |
+| S17-12 | 田裡剩的稻米比這頭牛的上限多：照長滿了顯示，進度條滿格，數字只寫公斤數（「120.0 公斤」，不寫「/ 88.0」） | 局部 | 叫回稀有耕牛後改派一般耕牛，`rice` 大於 `capacity`（缺口清單 2-5） | 沿用（使用者 2026-10-02 核准，D31） | 無 |
 
 - 照協定：稻米持續長、長滿就停，每塊田最多存這頭耕牛壯年 8 小時的量；畫一條進度條，稻子的樣子跟著進度長高（企劃書 4.0 已改）。
 
@@ -385,6 +396,7 @@
 | S18-12 | 借種費變了：公牛長大了，價格跟剛剛看的不一樣；「用新價格借」 | 局部 | 協定 `price_changed`（D26） | 新 | 無 |
 | S18-13 | 名字最長：8 個中文字、16 個英文字母（量測用）；名字太長只截名字，「電腦」和 #編號一定看得到 | 局部 | 量測用 | — | 無 |
 | S18-14 | 借種紀錄：對方的牧場刪除了，紀錄照樣保留，對方的名字顯示「已刪除的牧場」（量長度用） | 局部 | 對方刪除牧場（ceo 2026-10-02） | 新（`s18.deletedRanch`） | 無 |
+| S18-15 | 借種紀錄是空的：全部「還沒有借種紀錄」、按借出「還沒有借出的紀錄」、按借入「還沒有借入的紀錄」（樣子跟 S18-05 的空狀態一樣） | 局部 | `entries` 是空的，或篩選後沒有（缺口清單 2-2） | 新（`s18.logEmpty`、`s18.logEmptyOut`、`s18.logEmptyIn`，使用者 2026-10-02 核准，D31） | 無 |
 - D26（使用者 2026-10-01：「s04 上架借種價格我們幫用戶算好(理論上越稀有的牛就越貴，越大的也是)」，選「看體重公斤數」）：借種費＝公牛現在的體重 × 每公斤價格（一般 1.1、優良 2.75、稀有 6.6、傳說 16.5 幣），四捨五入到 10 幣；跟著公牛長大自動漲。主人只決定要不要上架，不再選價位。數字暫定，M3 重跑模擬後定案。
 - 借種紀錄（S18-11）：對方的牧場名是很長、中間沒有空白的英文字時，放不下就在任何字母之間換行，不蓋到右邊的金額（英文、泰文窄手機；繁中不會變。ceo 2026-10-02，缺口清單 5-1）。
 

diff --git a/design/m2/measure/en-th-report.md b/design/m2/measure/en-th-report.md
@@ -5,20 +5,43 @@
 - 依據：D25（英文、泰文畫面不送使用者核准，由 cow-ui 量版面）；字串表 `design/m2/i18n/en.json`、`th.json`（ceo，#23；這次的 key 改動在 #32）。
 - 自動產生的明細：`summary-en.md`、`summary-th.md`（每個狀態、每種寬度）；繁中是 `summary.md`。
 
-## 英文單位的「/」、評級大框、借種紀錄的長名字、名片的狀態標籤（2026-10-02，ceo 交辦，cow-app #85 之後）
+## 缺口清單第 2 類的 9 個新狀態（D31）、英文單位的「/」、評級大框、借種紀錄的長名字、名片的狀態標籤（2026-10-02）
+
+### 新狀態（使用者 2026-10-02 核准，D31）
+
+- 9 個：S04-14～16（公耕牛）、S18-15（空的借種紀錄）、S16-04、05（維護時間）、S13-19（Android 只綁 Apple）、S17-12（剩的稻米）、S12-08（圖鑑榜「完成」）。三種語言、四種寬度都量了。
+- 公耕牛第一排的兩顆半寬按鈕：英文 360、320 和泰文 320 放不下，換成一顆一排。
+  - 動作區因此比預留的高，原本會蓋住最下面的內容。
+  - 現在內容區的底部照動作區實際的高度往上推（`kit.js` 的 `fitActions()`）。
+  - 同一個調整也修好了原本就有的兩個重疊：S04-08（繁中 320、英文泰文 320／360）、S04-13（英文泰文 320）。
+- 圖鑑榜的「完成」：泰文 320 下面那一條放不下，「完成」只留打勾（`kit.js` 的 `fitMyRank()`）。
+- 上架中的公牛不放橘字提醒（S04-05、S04-16，D31）：泰文少了一句會換行的提醒。
+
+### 小修正（ceo 交辦，cow-app #85 之後）
 
 - 英文單位的「/」後面加 U+2060（跟泰文那次一樣）：14 個 key、16 處（coins/kg、btl/h、kg/h、coins/{unit}…）。
-  - cow-app #85 量到 S07 的「coins/kg」在 320 從「/」後面斷開；現在整組一起換行（S07-02 320：「Beef now 11.2」換行「coins/kg」）。
   - 比泰文多 3 個（s04.feeHowGrow、s04.feeHowMax、fieldRate）：泰文這 3 句本來就沒有「/」。
-- 出貨評級的大框（S20、A-10）：英文「Grade B」比框（116 寬）寬，蓋到框線。放不下時整組等比例縮小，左右各留 6 px，跟 app 的 FittedBox 一樣（`kit.js` 的 `fitGrade()`）。英文四種寬度都會縮；繁中「A 級」、泰文「เกรด A」放得下，不變。
+  - 設計稿的英文截圖沒有因此改變：用到這些字串的 41 個狀態，跟 main 逐位元比都一樣。設計稿本來就沒在「/」後面斷開，cow-app #85 量到的是 app 的版面（S07 的 coins/kg 在 320）。
+- 出貨評級的大框（S20、A-10）：英文「Grade B」比框（116 寬）寬，蓋到框線。
+  - 放不下時整組等比例縮小，左右各留 6 px，跟 app 的 FittedBox 一樣（`kit.js` 的 `fitGrade()`）。
+  - 英文 S20-01～03 的四種寬度、A-10 的關鍵影格都變了（字變小一點）。繁中「A 級」、泰文「เกรด A」放得下，不變。
 - 借種紀錄的長名字（S18-11，缺口清單 5-1）：對方的牧場名是很長、中間沒有空白的英文字時，在任何字母之間換行（`overflow-wrap: anywhere`），不蓋到右邊的金額。
   - 用「MorningRiverFarm」量：英文、泰文 320 的重疊 2 處 → 0 處；360 以上本來就沒事。
-  - 泰文的「斷在詞中間」會標出「MorningRiverFa⏎rm」，被拆開的是英文牧場名，正是要的換法，不是泰文詞被拆開。
+  - 泰文的「斷在詞中間」會標出「MorningRiverFa⏎rm」：被拆開的是英文牧場名，正是要的換法，不是泰文詞被拆開。
   - 設計稿的假資料是中文牧場名，設計稿的圖不變。
 - 點牛的名片（S03-06、S03-20、S03-21）：跟牛舍清單一樣顯示狀態標籤（小牛、老牛、工作中、上架中、已配種）。下面那一行：產奶的母乳牛寫產奶，小牛寫「長大還要」，其他牛寫體重。
-  - S03-21 那頭荷斯坦公牛 #8 在假資料裡是老牛、已配種，名片多兩個標籤、高一行。`M2-S03-名片位置-狀態表-430／390` 跟著換（ceo 確認）。S03-06、S03-20 的牛沒有狀態，不變。
-- 有問題的狀態數（430／390／360／320）：繁中、英文、泰文都不變（摘要重產後跟原本逐字相同）。
-- 繁中：HTML 跟 main 比，752 個狀態只有 S03-21 不同；全部重拍、12 個動畫重拍後，`boards/` 只有上面那兩張變了。
+  - S03-21 那頭荷斯坦公牛 #8 在假資料裡是老牛、已配種，名片多兩個標籤、高一行（D31 選 A）。三種語言的 S03-21 都變了；S03-06、S03-20 的牛沒有狀態，不變。
+
+### 結果
+
+- 有問題的狀態數（430／390／360／320）：
+  - 繁中 0／0／0／5 → 0／0／0／4（S04-08）。
+  - 英文 0／0／2／4 → 0／0／1／3（S04-13、S04-08）。
+  - 泰文 0／0／2／4 → 0／0／2／3（S04-08）。
+  - 9 個新狀態沒有帶來新的問題。
+- 繁中 `boards/`：全部重拍、12 個動畫重拍後，變的只有下面這些，其他核准的 board 逐位元相同。
+  - 改：S04-05（拿掉橘字提醒）、S12-02（前兩列加「完成」）、`M2-S03-名片位置-狀態表`（S03-21 的名片多兩個標籤）各兩張；S04、S12 的總覽各一張。
+  - 新：S04-14、15、16、S12-08 的整頁各兩張；`M2-S13-只綁Apple-狀態表`、`M2-S16-預計時間-狀態表`、`M2-S17-剩的稻米-狀態表`、`M2-S18-空紀錄-狀態表` 各兩張。
 
 ## 點後排的牛的名片、泰文「ความสด」（2026-10-02）
 

diff --git a/design/m2/measure/summary-en.md b/design/m2/measure/summary-en.md
@@ -9,10 +9,10 @@
 
 | 寬度 | 狀態數 | 最小字級 | 有問題的狀態 | 橫向捲動 | 刻意截成「…」 | 要往下捲的狀態 |
 |---|---|---|---|---|---|---|
-| 430×932 | 171 | 12 px | 0 | 0 | 0 | 36 |
-| 390×844 | 171 | 12 px | 0 | 0 | 2 | 47 |
-| 360×800 | 171 | 12 px | 2 | 0 | 4 | 53 |
-| 320×568 | 171 | 12 px | 4 | 0 | 115 | 75 |
+| 430×932 | 180 | 12 px | 0 | 0 | 0 | 38 |
+| 390×844 | 180 | 12 px | 0 | 0 | 2 | 49 |
+| 360×800 | 180 | 12 px | 1 | 0 | 6 | 58 |
+| 320×568 | 180 | 12 px | 3 | 0 | 121 | 81 |
 
 ## 430×932
 
@@ -25,13 +25,11 @@
 ## 360×800
 
 - **S03-17 大新聞提示：全部商品一起大跌（新文案）**：文字互相重疊、被蓋住或壓在圖上 1（例：Typhoon closes markets f）
-- **S04-13 耕牛：沒有空田，派不出去**：文字互相重疊、被蓋住或壓在圖上 6（例：A／按鈕:Send to fi；41.6%／按鈕:Send to fi；B／按鈕:Send to fi）
 
 ## 320×568
 
 - **S03-08 一頭牛都沒有**：文字互相重疊、被蓋住或壓在圖上 14（例：Draw a cow in the Shop, ；Go to Shop／0 / 42 btlNo ；No cows in your barn yet）
 - **S03-15 大新聞提示：收購價大漲（只跳出一次）**：文字互相重疊、被蓋住或壓在圖上 1（例：BBQ season kicks off／按鈕:）
-- **S04-08 小牛：長大倒數**：文字互相重疊、被蓋住或壓在圖上 2（例：Age／Calves can breed or ；Grows up in／Calves can b）
 - **S07-05 斷線：「確定出貨」停用**：文字互相重疊、被蓋住或壓在圖上 2（例：Connecting…／Holstein #3；Connecting…／~212 kg of b）
 
 ## 缺翻譯的 key（畫面用繁中顯示）

diff --git a/design/m2/measure/summary.md b/design/m2/measure/summary.md
@@ -9,10 +9,10 @@
 
 | 寬度 | 狀態數 | 最小字級 | 有問題的狀態 | 橫向捲動 | 刻意截成「…」 | 要往下捲的狀態 |
 |---|---|---|---|---|---|---|
-| 430×932 | 175 | 12 px | 0 | 0 | 0 | 36 |
-| 390×844 | 175 | 12 px | 0 | 0 | 1 | 46 |
-| 360×800 | 175 | 12 px | 0 | 0 | 3 | 51 |
-| 320×568 | 175 | 12 px | 5 | 0 | 117 | 71 |
+| 430×932 | 184 | 12 px | 0 | 0 | 0 | 38 |
+| 390×844 | 184 | 12 px | 0 | 0 | 1 | 48 |
+| 360×800 | 184 | 12 px | 0 | 0 | 3 | 56 |
+| 320×568 | 184 | 12 px | 4 | 0 | 123 | 78 |
 
 ## 430×932
 
@@ -31,6 +31,5 @@
 - **S03-08 一頭牛都沒有**：文字互相重疊、被蓋住或壓在圖上 10（例：到商店抽一頭牛，或等配種的小牛出生。／收起；去商店／0%；到商店抽一頭牛，或等配種的小牛出生。／按鈕:收起）
 - **S03-17 大新聞提示：全部商品一起大跌（新文案）**：文字互相重疊、被蓋住或壓在圖上 1（例：颱風過境，市場休市一日／按鈕:）
 - **S03-19 點後排的牛：照原本的放法（頭頂上方），會蓋到頂列、跑馬燈和牛欄膠囊（只是對照）**：文字被切掉 1（例：娟珊 #14）、進到狀態列或 Home 指示條 1（例：娟珊 #14）
-- **S04-08 小牛：長大倒數**：文字互相重疊、被蓋住或壓在圖上 3（例：42 分／小牛長大以後才能配種、出貨。；18 分／蓋住:div.detail-actio；42 分／蓋住:div.detail-actio）
 - **S07-05 斷線：「確定出貨」停用**：文字互相重疊、被蓋住或壓在圖上 1（例：連線中…／荷斯坦 #3）
 
